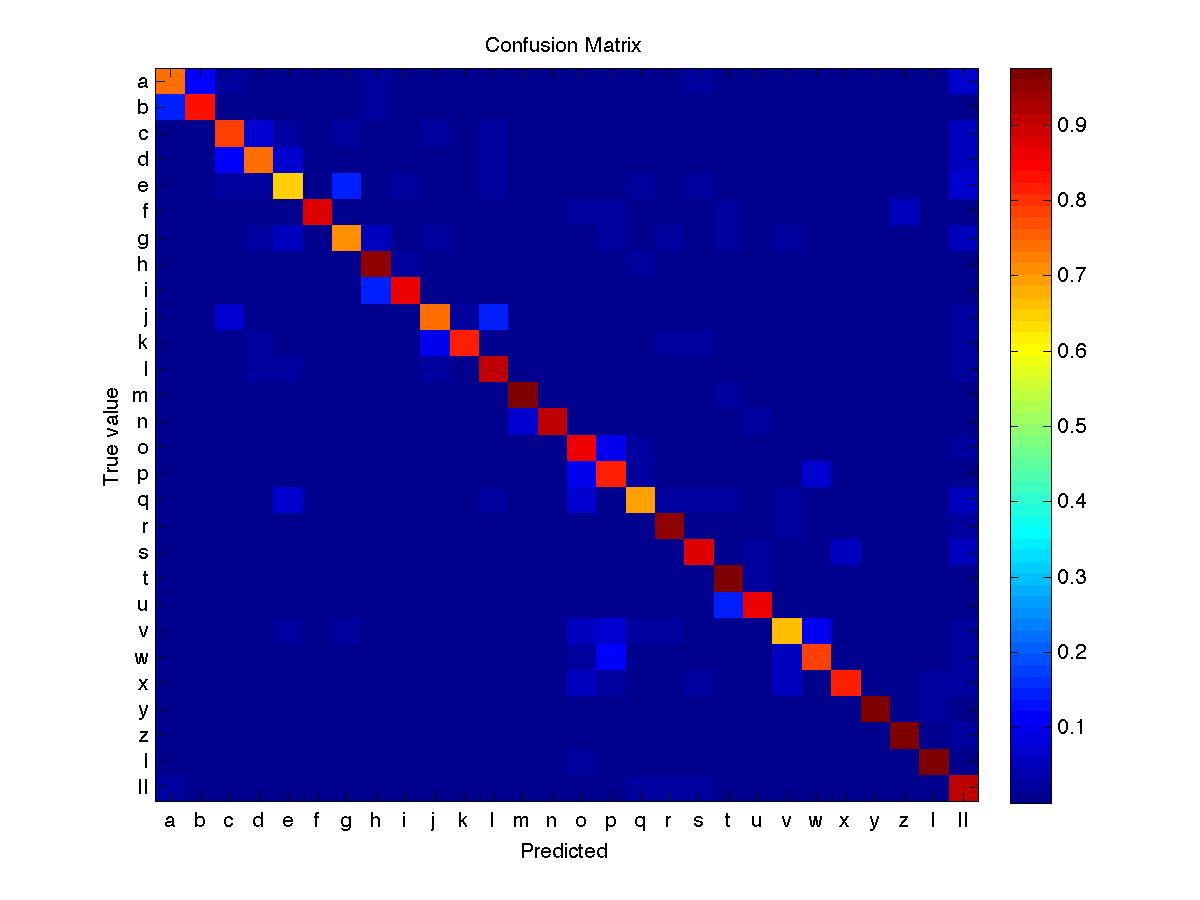
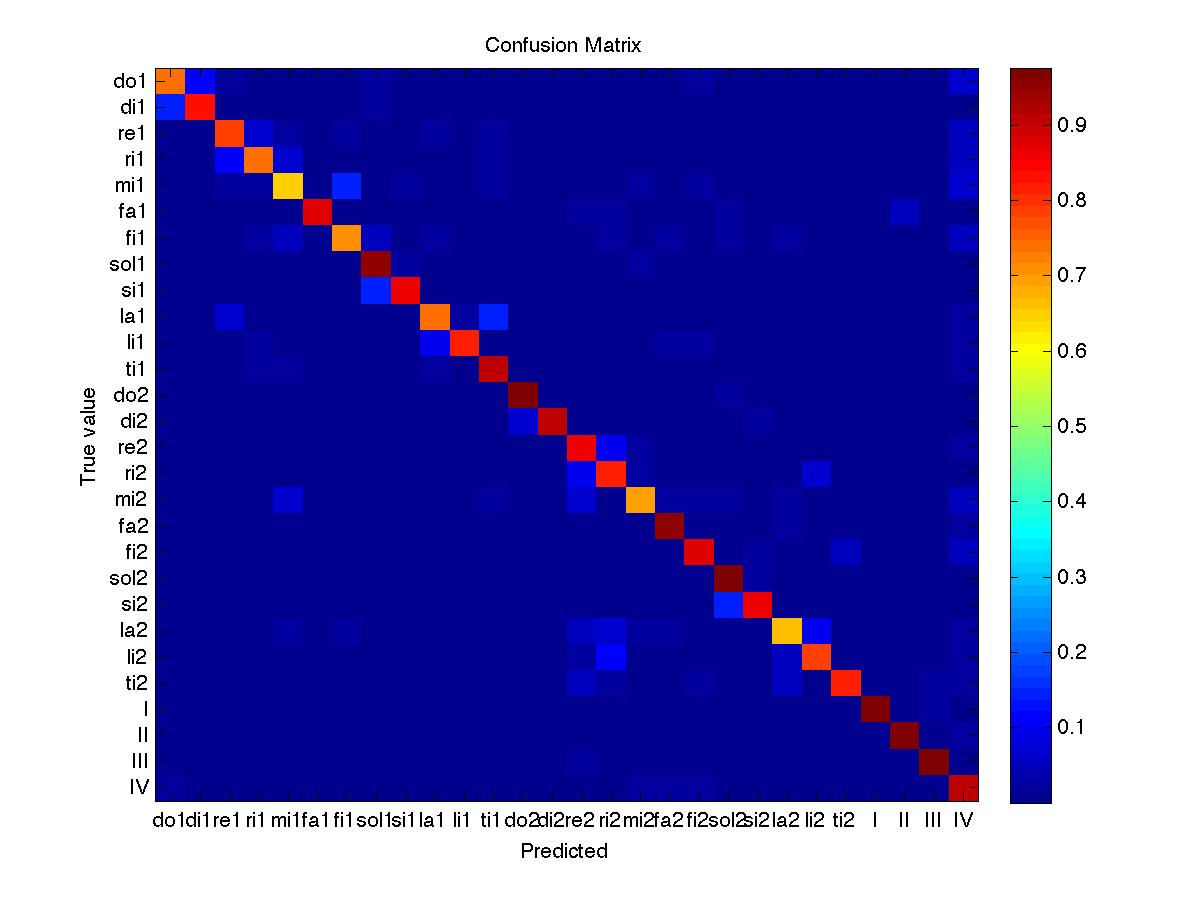
made confmat more nice, made distance table more nice

Changed region(s): [[0.0617, 0.0622, 0.1233, 0.7778], [0.1233, 0.9022, 0.7092, 0.9333], [0.7708, 0.9022, 0.8017, 0.9333]]

diff --git a/thesis/experiments.tex b/thesis/experiments.tex
@@ -136,108 +136,60 @@ SVM $\chi^2$ 			&	63.81\%		&	74.71\%	\\
 
 For this set of experiments the Damerau-Levenshtein distance of a sequence of generated labels to the ground truth is calculated. This value is then divided by the number of labels, 28. A low value is equal to good performance, a high value to bad. The ground truth is a list of incremented integers from 1 to 28. Since some movies are 'polluted' with incorrect hand poses and other people walking through the screen this ground truth isn't really correct. But it is very difficult to impossible to construct a good ground truth in this case, and given the fact that the goal of the recorded movies was to have people perform the 28 hand poses sequentially this is a good alternative.
 
-simple: 0.27 average
-complex: 0.35 average
+simple: 0.27 average\\
+complex: 0.35 average\\
 
-ivo 0.08
-hanne 0.14
-gijs 0.18
-ork 0.18
-chu 0.19
-jasberb 0.23
-stratos 0.24
-victoria 0.24
-arjan 0.26
-peter 0.26
-anne 0.28
-michael 0.32
-gosia 0.37
-koen 0.38
-jasper  0.4
-bas 0.44
-roberto 0.47
-xiaong 0.49
-hamdi 0.49
-sil 0.52
+ivo 0.08\\
+hanne 0.14\\
+gijs 0.18\\
+ork 0.18\\
+chu 0.19\\
+jasberb 0.23\\
+stratos 0.24\\
+victoria 0.24\\
+arjan 0.26\\
+peter 0.26\\
+anne 0.28\\
+michael 0.32\\
+gosia 0.37\\
+koen 0.38\\
+jasper  0.4\\
+bas 0.44\\
+roberto 0.47\\
+xiaong 0.49\\
+hamdi 0.49\\
+sil 0.52\\
 
 
-hanne1 9.0
-hanne2 0.0
-hanne3 1.0
-hanne4 7.0
-hanne5 2.0
-ivo1 2.0
-ivo2 3.0
-ivo3 2.0
-ivo4 3.0
-ivo5 1.0
-anne1 12.0
-anne2 9.0
-anne3 7.0
-anne4 8.0
-anne5 4.0
-arjan1 13.0
-arjan2 7.0
-arjan3 7.0
-arjan4 2.0
-arjan5 8.0
-gijs1 4.0
-gijs2 5.0
-gijs3 6.0
-gijs4 6.0
-gijs5 4.0
-ork1 6.0
-ork2 5.0
-ork3 4.0
-peter1 7.0
-peter2 8.0
-peter3 7.0
-peter4 9.0
-peter5 5.0
+\begin{tabular}{rrrrrrr}
+\hline
+name	& 1 & 2 & 3 & 4 & 5 & normalized average \\
+\hline
+Anne	&	12.0	&	9.0		&	7.0	&	8.0	&	4.0	&	0.28\\
+Arjan	&	13.0	&	7.0		&	7.0	&	2.0	&	8.0	&	0.26\\
+Gijs	&	4.0		&	5.0		&	6.0	&	6.0	&	4.0	&	0.18\\
+Ivo		&	2.0		&	3.0		&	2.0	&	3.0	&	1.0	&	0.08\\
+Jasper 1	&	19.0	&	13.0	&	6.0	&	6.0	&	12.0 &	0.4\\
+Peter	&	7.0		&	8.0		&	7.0	&	9.0	&	5.0	&	0.26\\
+Hanne	&	9.0		&	0.0		&	1.0	&	7.0	&	2.0	&	0.14\\
+Jasper 2	&	9.0		&	5.0		&	5.0 & & & 0.23\\
+Ork		&	6.0		&	5.0		&	4.0	& & & 0.18\\
+Roberto	&	19.0	&	8.0		&	13.0 & & & 0.47\\
+Xiaong	&	17.0	&	14.0	&	10.0 & & & 0.49\\
+\hline
+Gosia	&	16.0	&	9.0		&	6.0 & & & 0.37\\
+Hamdi	&	14.0	&	12.0	&	15.0 & & & 0.49\\
+Michael	&	6.0		&	8.0		&	13.0 & & & 0.32\\
+Sil		&	14.0	&	17.0	&	13.0 & & & 0.52\\
+Victoria	&	9.0	&	6.0		&	5.0 & & & 0.24\\
+Chu		&	8.0		&	6.0		&	2.0 & & & 0.19\\
+\hline
+Koen	&	11.0	&	9.0		&	11.0 & & & 0.38\\
+Bas		&	15.0	&	12.0	&	9.0 & & & 0.44\\
+Stratos	&	12.0	&	3.0		&	5.0 & & & 0.24\\
 
-roberto1 19.0
-roberto2 8.0
-roberto3 13.0
-xiaong1 17.0
-xiaong2 14.0
-xiaong3 10.0
-jasper1 19.0
-jasper2 13.0
-jasper3 6.0
-jasper4 6.0
-jasper5 12.0
-jasperb1 9.0
-jasperb2 5.0
-jasperb3 5.0
-
-gosia1 16.0
-gosia2 9.0
-gosia3 6.0
-hamdi1 14.0
-hamdi2 12.0
-hamdi3 15.0
-michael1 6.0
-michael2 8.0
-michael3 13.0
-
-sil1 14.0
-sil2 17.0
-sil3 13.0
-koen1 11.0
-koen2 9.0
-koen3 11.0
-bas1 15.0
-bas2 12.0
-bas3 9.0
-chu1 8.0
-chu2 6.0
-chu3 2.0
-stratos1 12.0
-stratos2 3.0
-stratos3 5.0
-victoria1 9.0
-victoria2 6.0
-victoria3 5.0
+\hline
+\end{tabular}
 
 
 

diff --git a/thesis/confmat/run.m b/thesis/confmat/run.m
@@ -16,8 +16,10 @@ ylabel('True value');
 % label bij elk symbool
 set(gca,'XTick',1:28);
 set(gca,'YTick',1:28);
-set(gca,'XTickLabel',{'a','b','c','d','e','f','g','h','i','j','k','l','m','n','o','p','q','r','s','t','u','v','w','x','y','z','I','II'});
-set(gca,'YTickLabel',{'a','b','c','d','e','f','g','h','i','j','k','l','m','n','o','p','q','r','s','t','u','v','w','x','y','z','I','II'});
+%set(gca,'XTickLabel',{'a','b','c','d','e','f','g','h','i','j','k','l','m','n','o','p','q','r','s','t','u','v','w','x','y','z','I','II'});
+%set(gca,'YTickLabel',{'a','b','c','d','e','f','g','h','i','j','k','l','m','n','o','p','q','r','s','t','u','v','w','x','y','z','I','II'});
+set(gca, 'XTickLabel',{'do1','di1','re1','ri1','mi1','fa1','fi1','sol1','si1','la1','li1','ti1','do2','di2','re2','ri2','mi2','fa2','fi2','sol2','si2','la2','li2','ti2','I','II','III','IV'});
+set(gca, 'YTickLabel',{'do1','di1','re1','ri1','mi1','fa1','fi1','sol1','si1','la1','li1','ti1','do2','di2','re2','ri2','mi2','fa2','fi2','sol2','si2','la2','li2','ti2','I','II','III','IV'});
 set(gcf,'Resize', 'off');
 set(gcf, 'Position', [1 1 1000 600]);
 

diff --git a/thesis/thesis.tex b/thesis/thesis.tex
@@ -2,15 +2,12 @@
 
 \documentclass[a4paper]{report}
 
-% for internal references
-\usepackage{hyperref}
-
 % for images
 \usepackage{graphicx}
 \usepackage{subfig}
 
 % for jumping to correct location from editor
-%\usepackage{pdfsync}
+\usepackage{pdfsync}
 
 % for UTF-8 support
 \usepackage[utf8]{inputenc}
@@ -21,6 +18,8 @@
 % for math
 \usepackage{amsmath}
 
+% for internal references
+\usepackage{hyperref}
 
 
 %% use this to only render some includes

diff --git a/thesis/gestures.tex b/thesis/gestures.tex
@@ -36,7 +36,7 @@ Histogram of oriented gradient (HOG) descriptors are feature descriptors used fo
 
 For the experiments described in chapter \ref{ch:experiments} the same parameters as in the \cite{watanabe2009} paper are used, except that the image is not resized to 64 by 128 pixels, but 128 by 128 pixels.
 
-hand detection with SIFT\cite{Wang}
+hand detection with SIFT\cite{Wang2007}
 
 \section{Classification}
 
